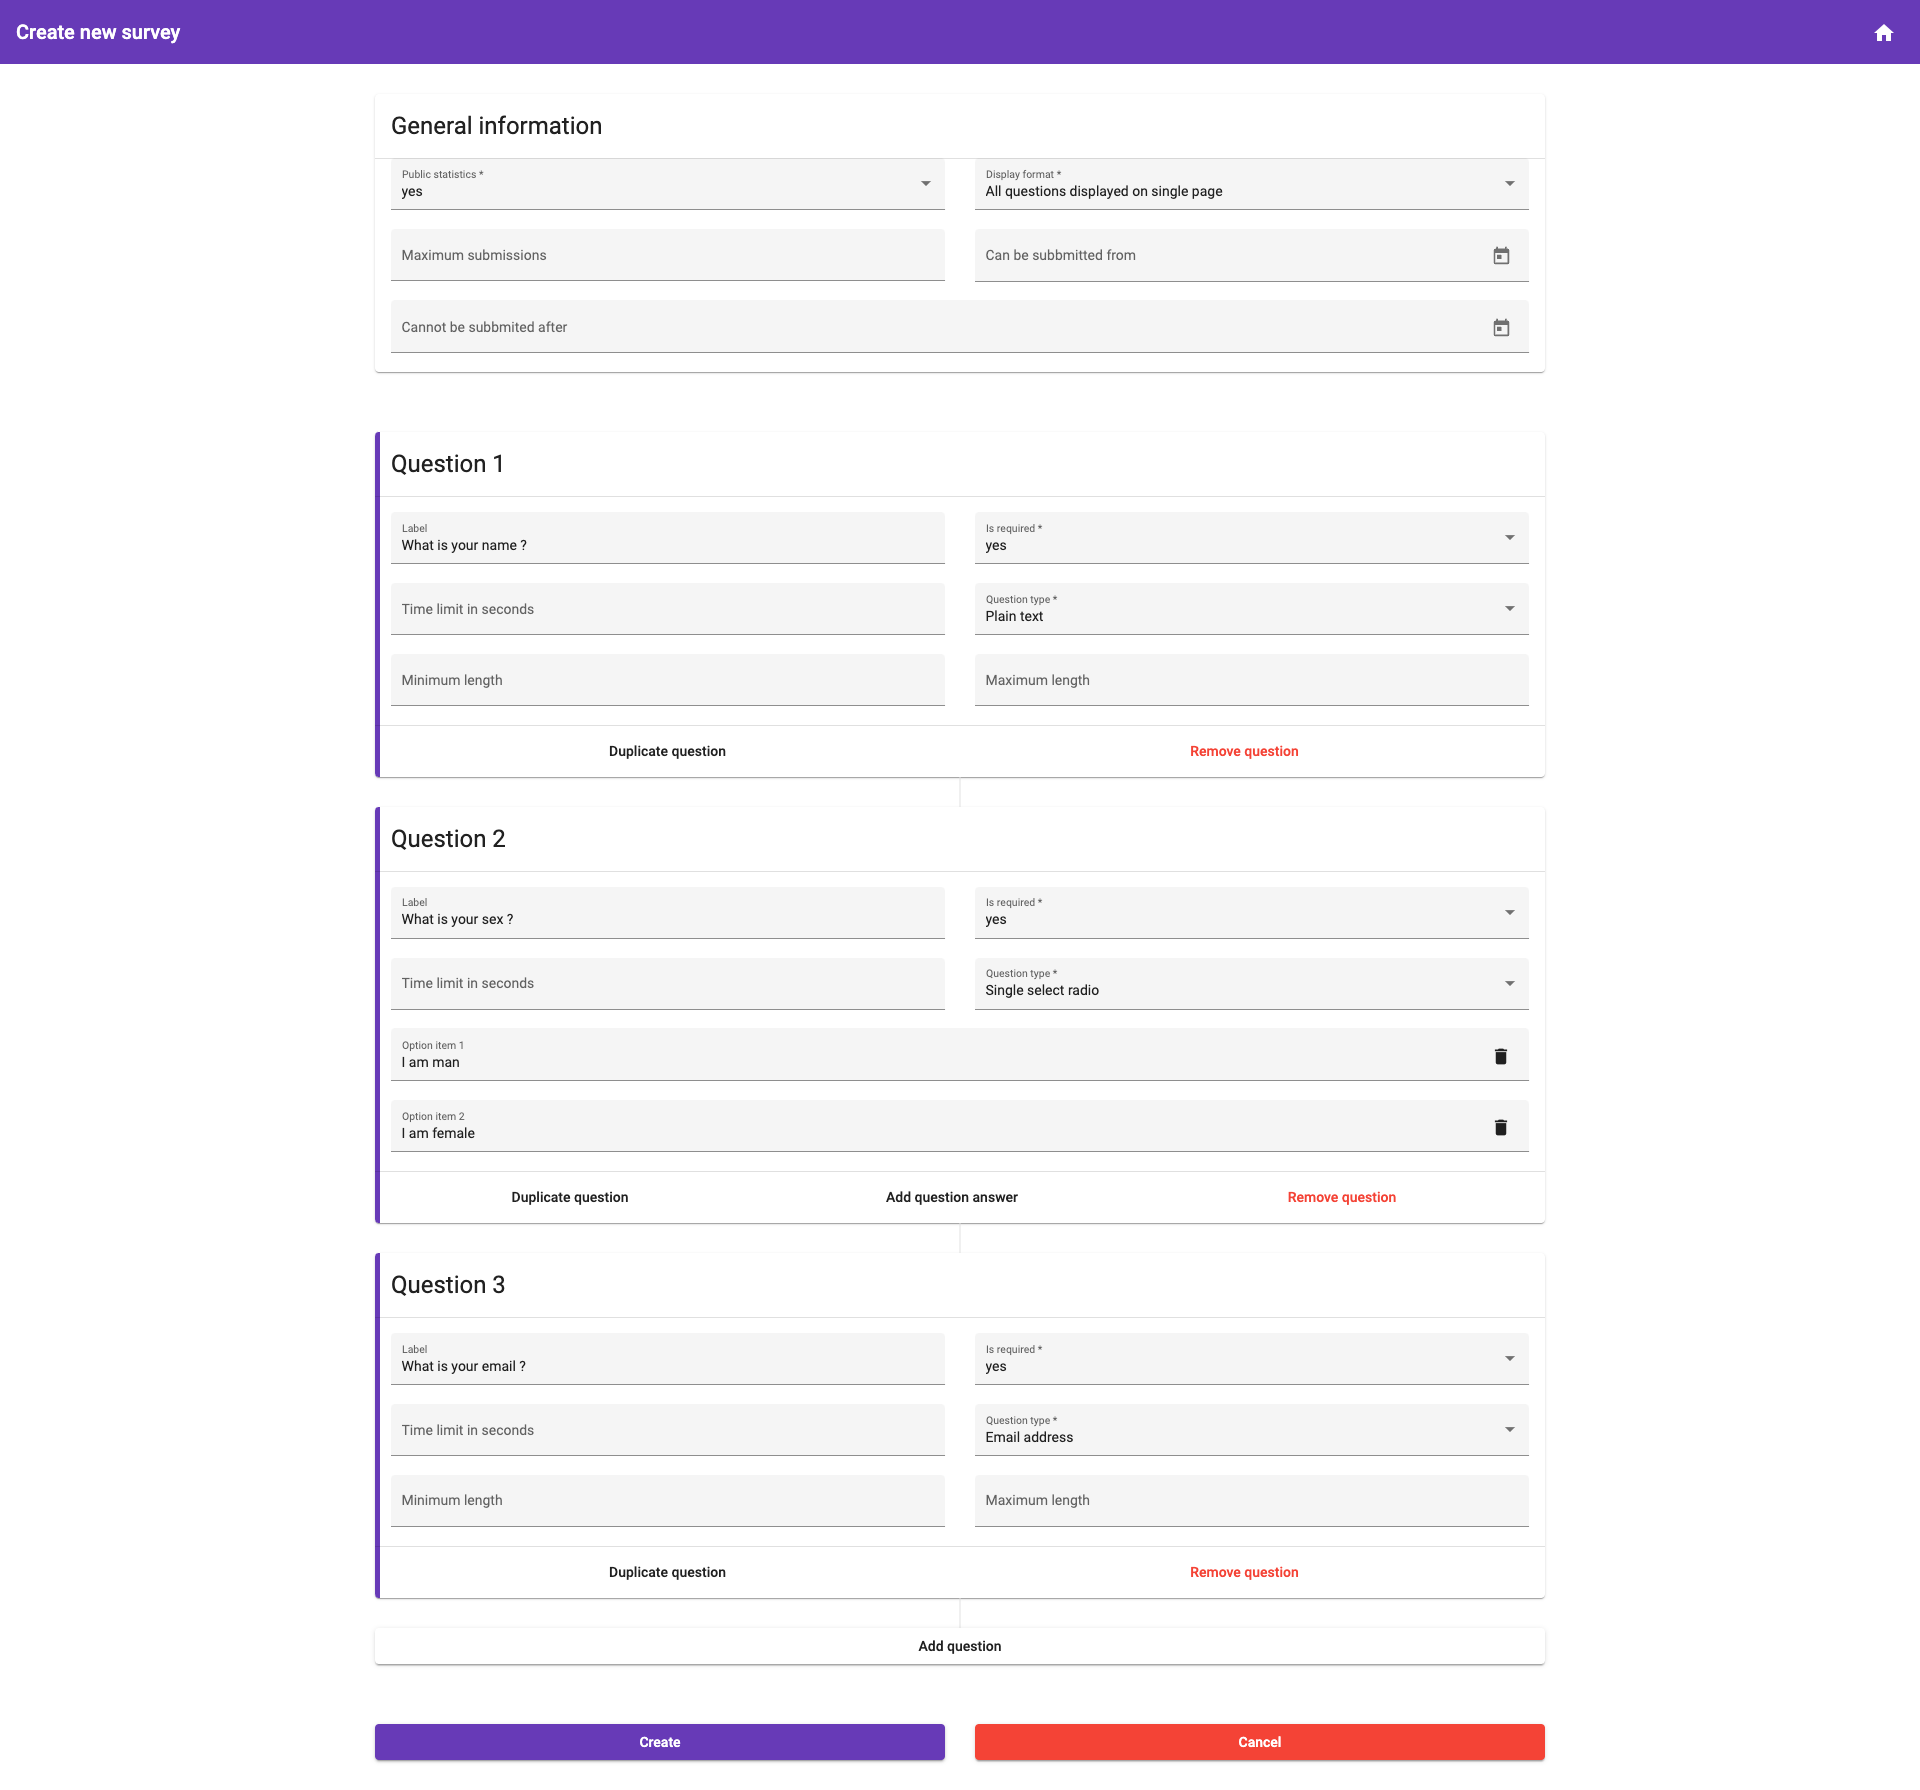
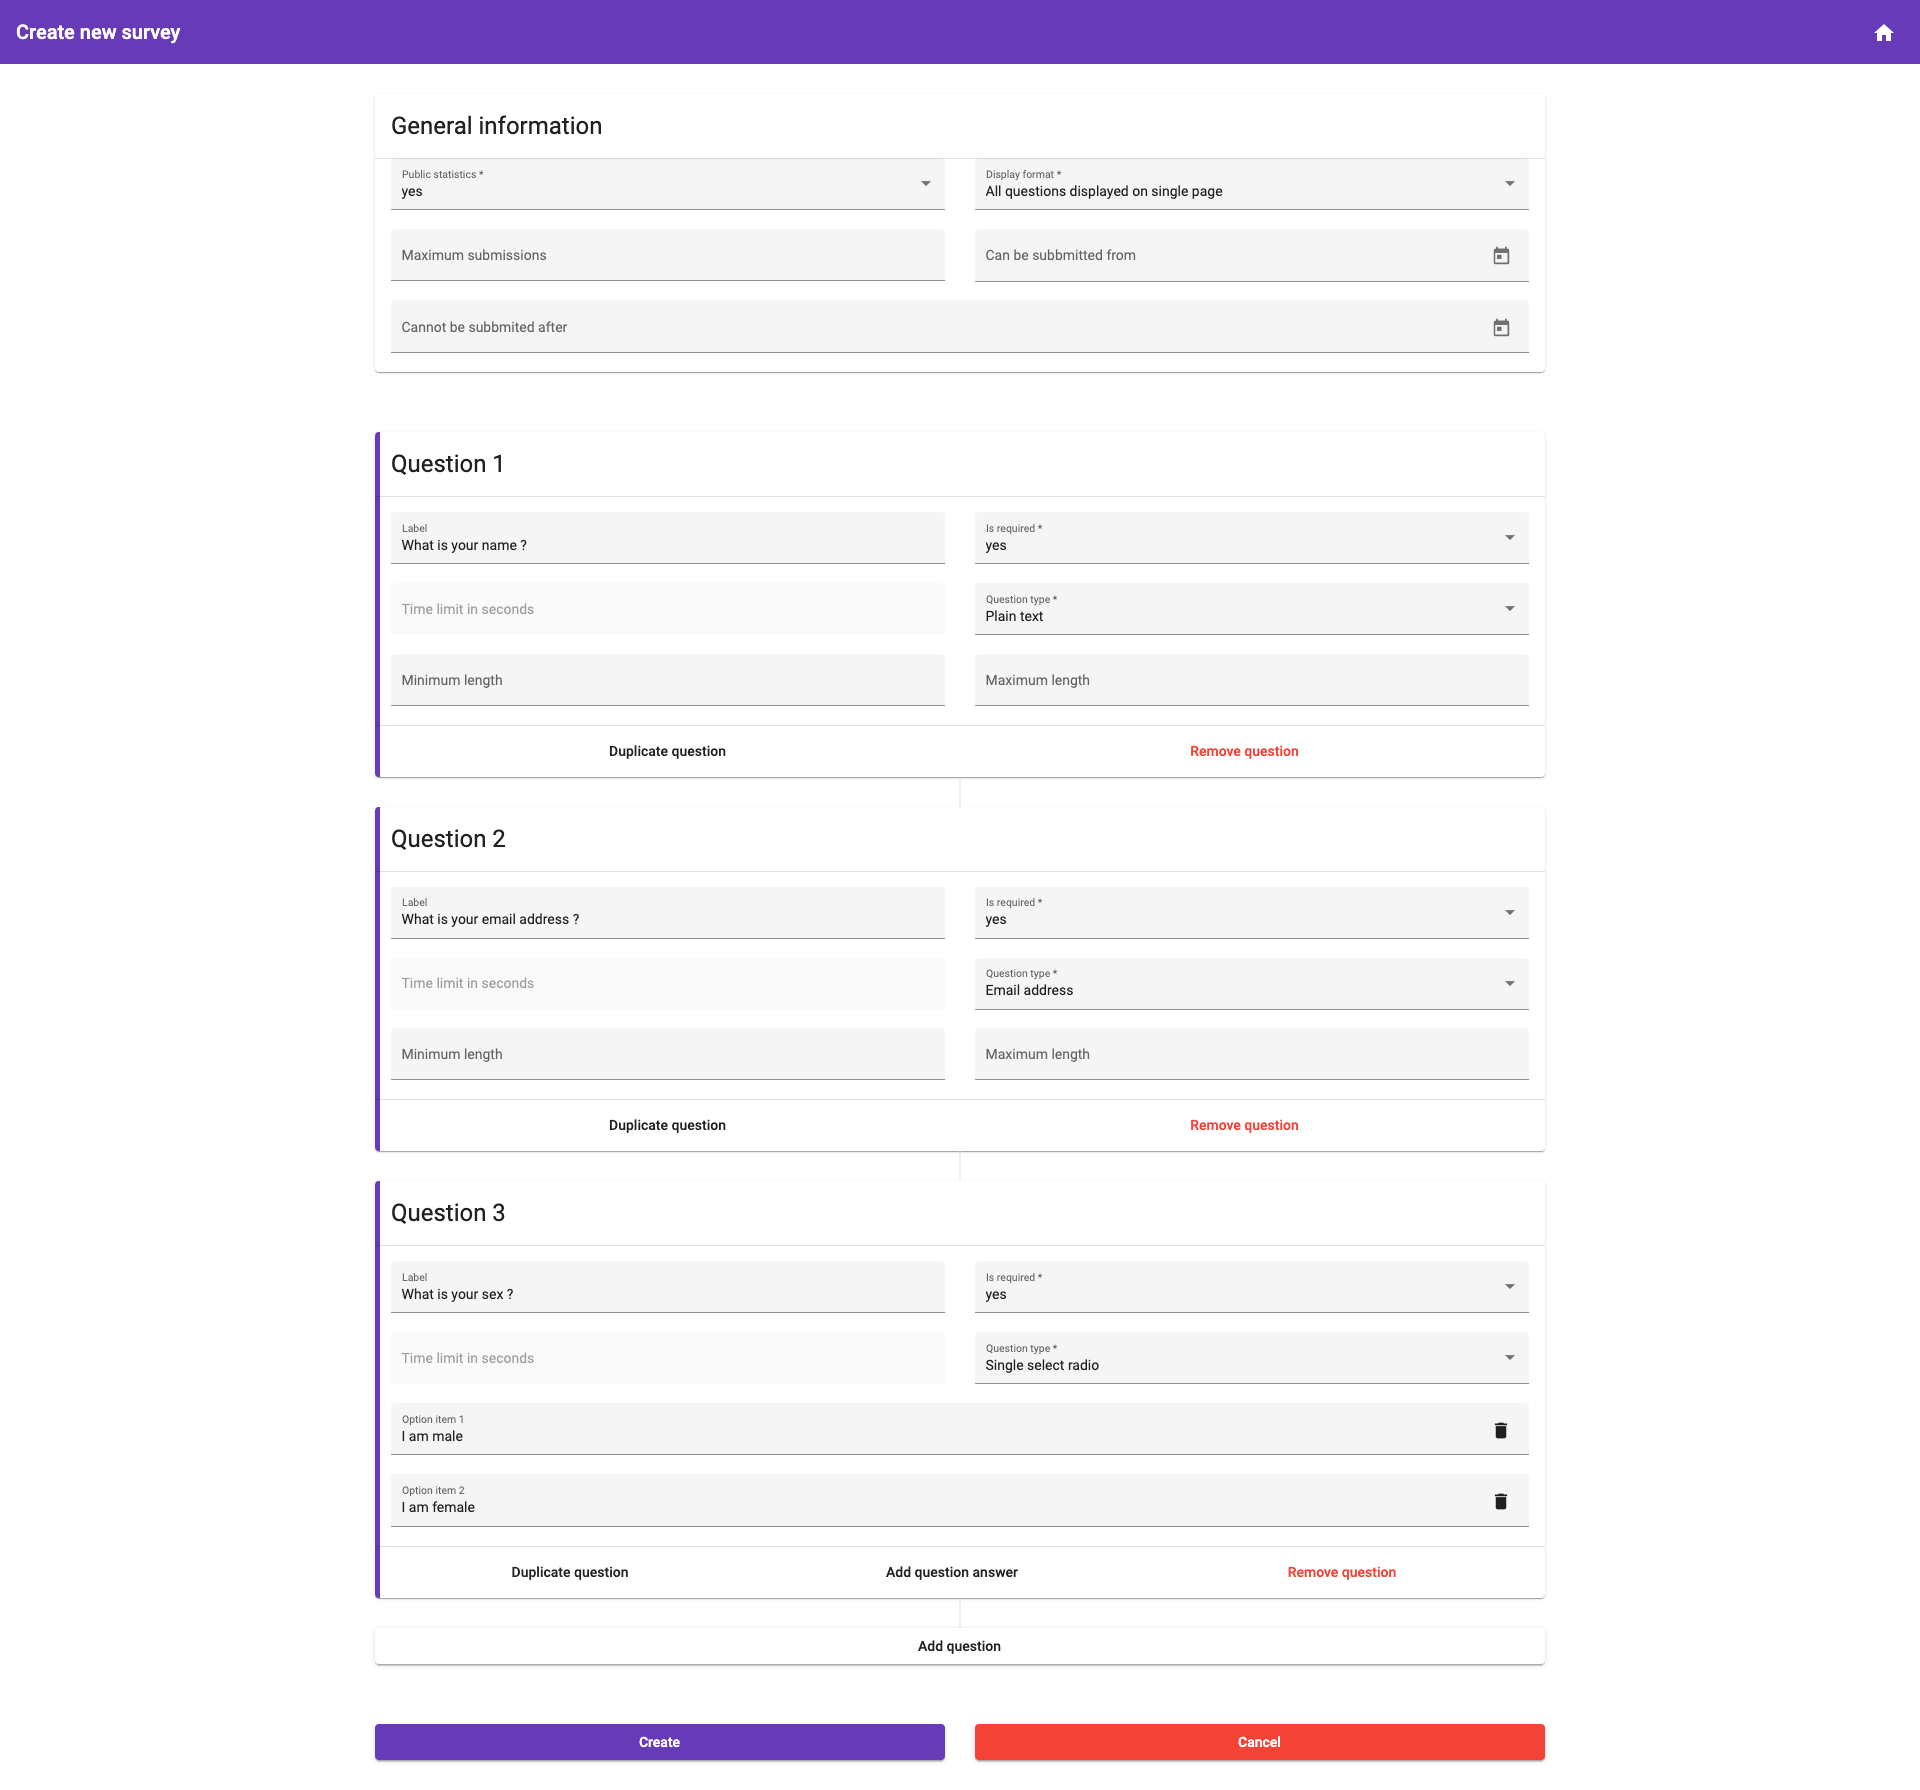
Time limit disability in creator

diff --git a/frontend/src/app/content/generate/creator/creator.component.ts b/frontend/src/app/content/generate/creator/creator.component.ts
@@ -1,5 +1,6 @@
 import { Component, OnDestroy } from '@angular/core';
 import {
+  AbstractControl,
   FormArray,
   FormBuilder,
   FormControl,
@@ -211,6 +212,24 @@ export class CreatorComponent implements OnDestroy {
     }
   }
 
+  private onDisplayFormatChange(formGroup: FormGroup): void {
+    const controls: Record<string, AbstractControl> = formGroup.controls;
+    const format: SurveyDisplayFormat = controls['displayFormat'].value;
+    const questionsArray: FormArray = <FormArray>controls['questions'];
+    const questionsGroups: FormGroup[] = <FormGroup[]>questionsArray.controls;
+
+    for (const questionGroup of questionsGroups) {
+      const control: AbstractControl = questionGroup.get('timeLimitInSeconds')!;
+      control.setValue(undefined, { emitEvent: false });
+
+      if (format === SurveyDisplayFormat.SingleRestricted) {
+        control.enable({ emitEvent: false });
+      } else {
+        control.disable({ emitEvent: false });
+      }
+    }
+  }
+
   private createFormGroup(): FormGroup {
     const questionsFormArray: FormArray = this.formBuilder.array([]);
     questionsFormArray.valueChanges
@@ -225,14 +244,25 @@ export class CreatorComponent implements OnDestroy {
       questionsFormArray.push(formGroup);
     }
 
-    return this.formBuilder.group({
+    const displayFormatControl: FormControl = new FormControl(
+      SurveyDisplayFormat.AllAtOnce,
+      Validators.required,
+    );
+
+    const formGroup: FormGroup = this.formBuilder.group({
       publicStatistics: [true, Validators.required],
-      displayFormat: [SurveyDisplayFormat.AllAtOnce, Validators.required],
+      displayFormat: displayFormatControl,
       submittableFrom: [undefined],
       submittableTo: [undefined],
       maximumSubmissions: [undefined, Validators.min(1)],
       questions: questionsFormArray,
     });
+
+    displayFormatControl.valueChanges
+      .pipe(takeUntil(this.ngOnDestroy$), startWith(formGroup))
+      .subscribe(() => this.onDisplayFormatChange(formGroup));
+
+    return formGroup;
   }
 
   private createQuestionFormGroup(): FormGroup {
